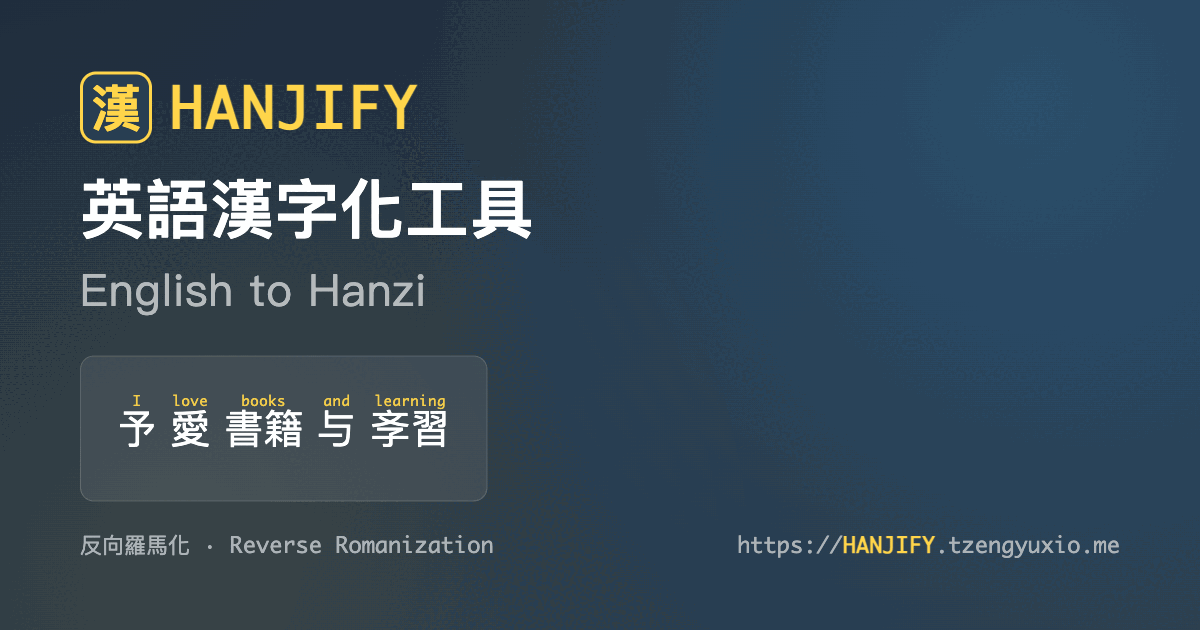
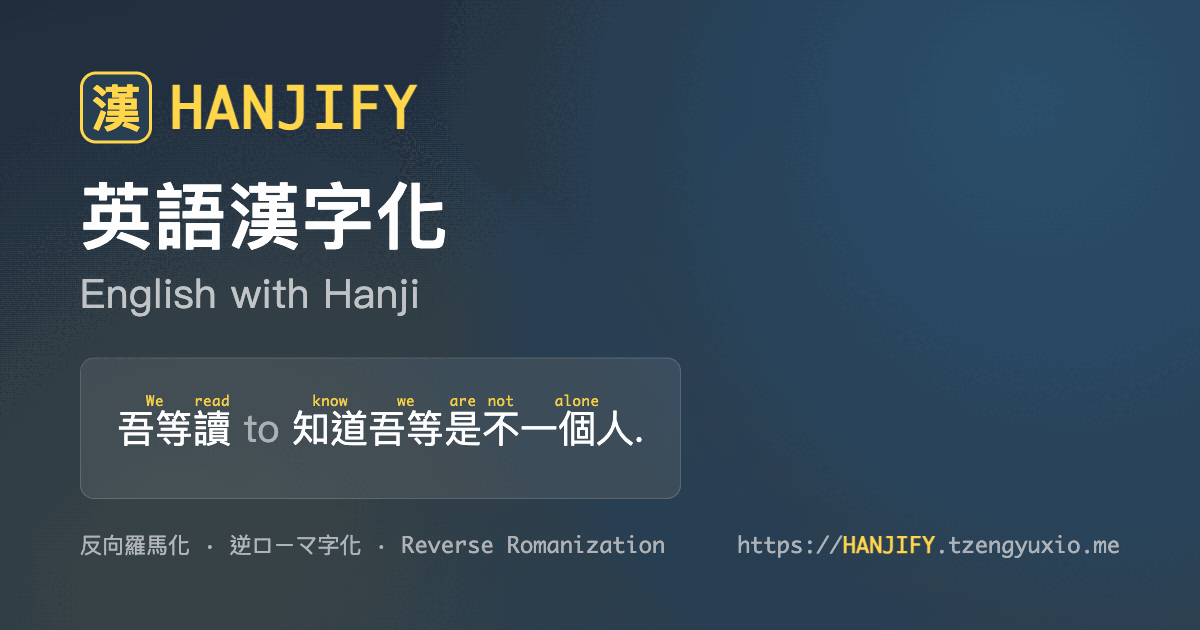
feat(meta): refresh og-image; track pending translations
- og-image: simplified bilingual title (英語漢字化 + English with
  Hanji), new sample sentence "We read to know we are not alone"
  rendered with site-faithful no-space ruby spacing, footer extended
  to three languages (反向羅馬化 · 逆ローマ字化 · Reverse Romanization).
- docs/pending-translations.md: track words encountered in real text
  but not yet in wordlist.js (bind, distant, epoch, laboratory) so
  they don't get lost between batches.

diff --git a/docs/pending-translations.md b/docs/pending-translations.md
@@ -1,0 +1,17 @@
+# Pending Translations
+
+Words encountered in real-world / sample text that are not yet in
+`wordlist.js`. When a batch is ready, route through the standard
+pipeline: append to `words.txt` → run `process_words.py` (DeepL) →
+manually edit `hanjify_translated.csv` → `extract.py`.
+
+The "Suggested Hanji" column is a starting point only; final glyph
+selection should follow `docs/spec.md` rules (variant unification,
+function-word treatment, etc.).
+
+| English | Suggested Hanji | Encountered in / notes |
+| --- | --- | --- |
+| bind | 縛 / 結 | "binding together" — verb, connect/tie |
+| distant | 遠 / 遥 | adjective, "distant epochs" |
+| epoch | 紀元 / 時代 | era / period of time |
+| laboratory | 實驗室 | example text 4 ("study … in their laboratory") |
